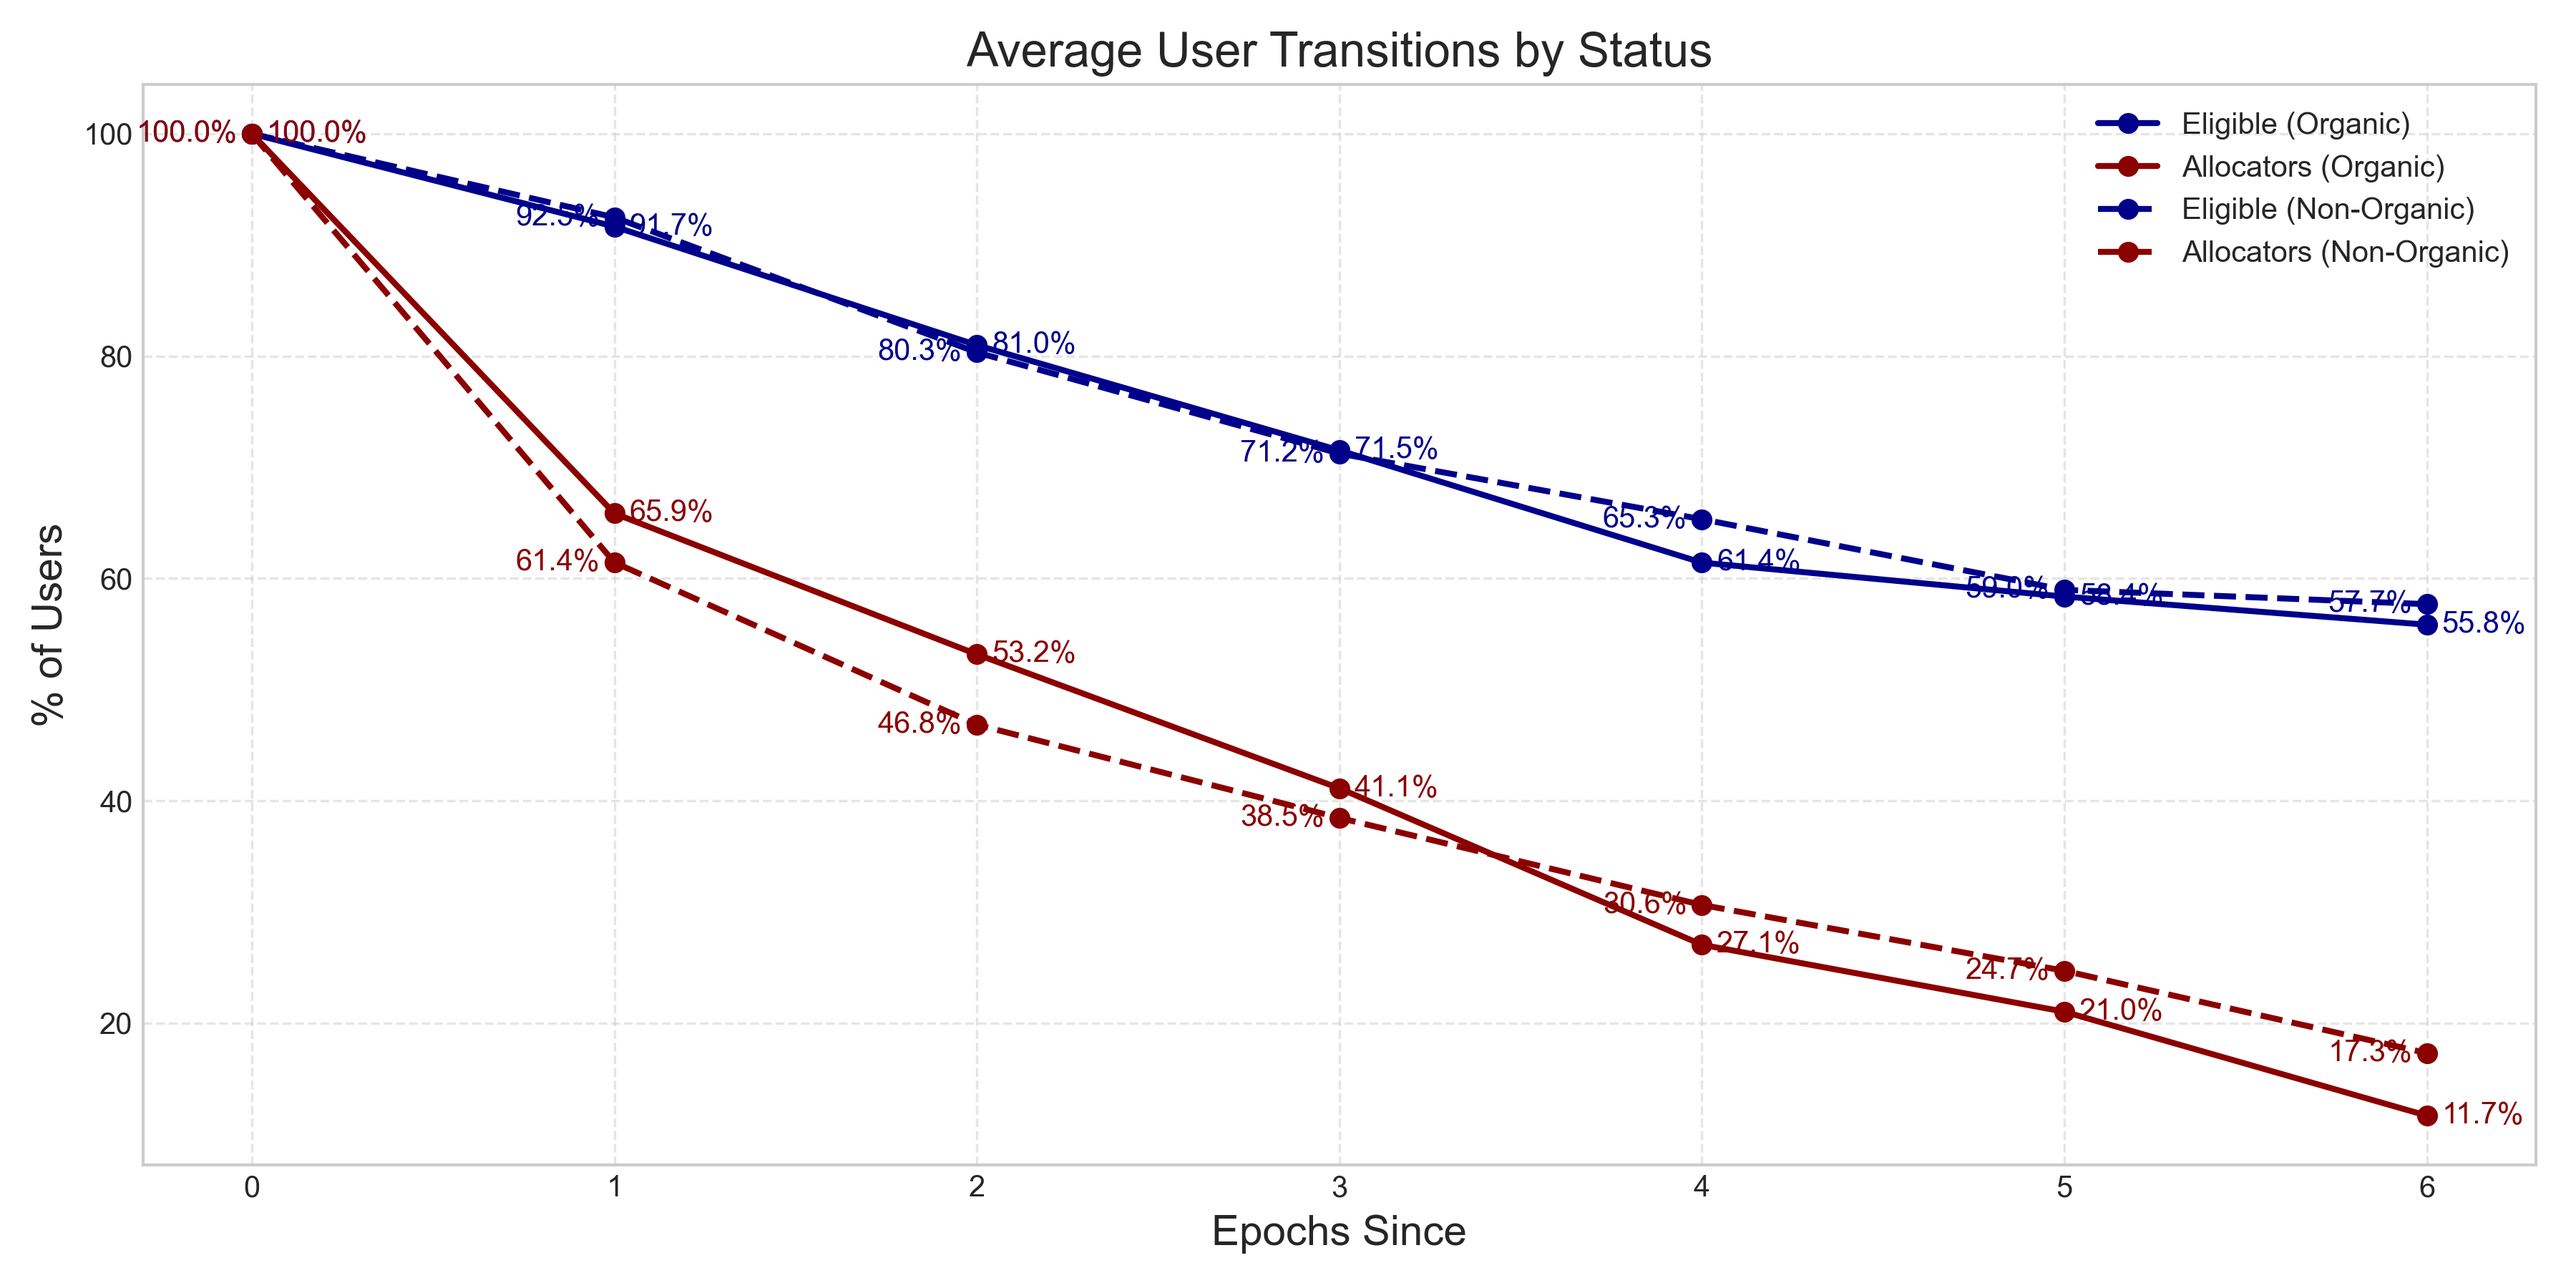
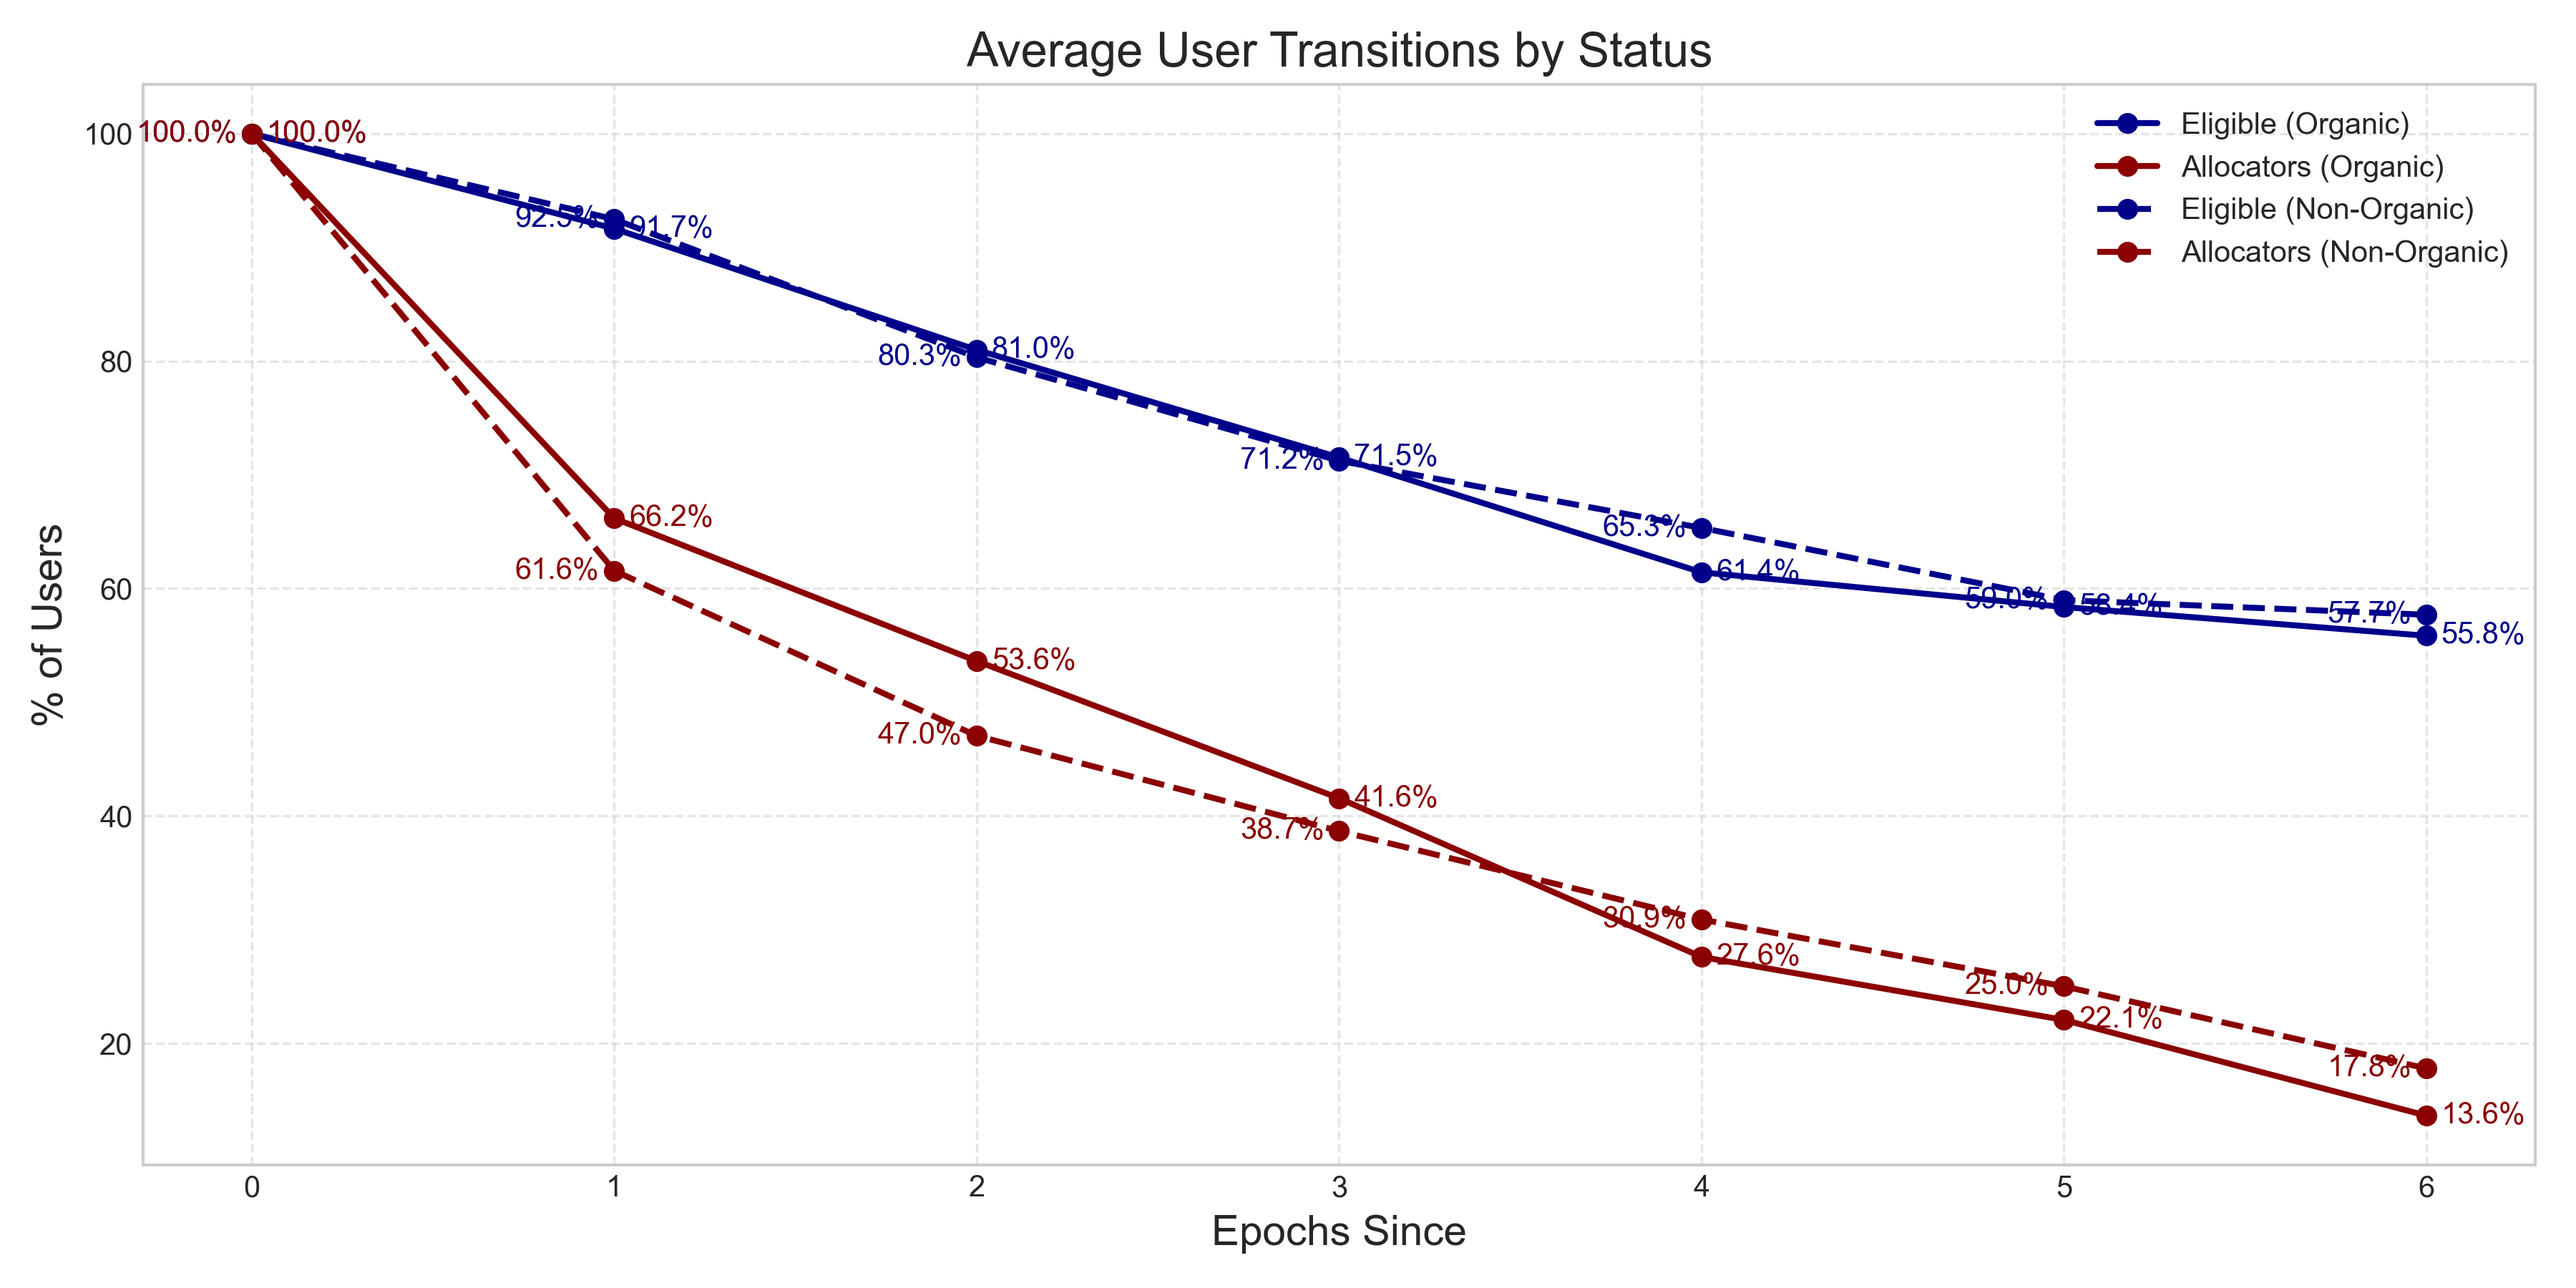
update data

diff --git a/_site/e7.html b/_site/e7.html
@@ -158,11 +158,11 @@
     <tr>
       <td style="width: 1%; text-align: center; padding: 8px; word-wrap: break-word; white-space: normal;">7</td>
       <td style="width: 1%; text-align: center; padding: 8px; word-wrap: break-word; white-space: normal;">211.906</td>
-      <td style="width: 1%; text-align: center; padding: 8px; word-wrap: break-word; white-space: normal;">190.630</td>
-      <td style="width: 1%; text-align: center; padding: 8px; word-wrap: break-word; white-space: normal;">1.848</td>
-      <td style="width: 1%; text-align: center; padding: 8px; word-wrap: break-word; white-space: normal;">10.0</td>
-      <td style="width: 1%; text-align: center; padding: 8px; word-wrap: break-word; white-space: normal;">90.0</td>
-      <td style="width: 1%; text-align: center; padding: 8px; word-wrap: break-word; white-space: normal;">1.0</td>
+      <td style="width: 1%; text-align: center; padding: 8px; word-wrap: break-word; white-space: normal;">196.071</td>
+      <td style="width: 1%; text-align: center; padding: 8px; word-wrap: break-word; white-space: normal;">2.484</td>
+      <td style="width: 1%; text-align: center; padding: 8px; word-wrap: break-word; white-space: normal;">7.5</td>
+      <td style="width: 1%; text-align: center; padding: 8px; word-wrap: break-word; white-space: normal;">92.5</td>
+      <td style="width: 1%; text-align: center; padding: 8px; word-wrap: break-word; white-space: normal;">1.3</td>
     </tr>
   </tbody>
 </table>
@@ -229,9 +229,9 @@
     <tr>
       <td style="width: 1%; text-align: center; padding: 8px; word-wrap: break-word; white-space: normal;">7</td>
       <td style="width: 1%; text-align: center; padding: 8px; word-wrap: break-word; white-space: normal;">2162</td>
-      <td style="width: 1%; text-align: center; padding: 8px; word-wrap: break-word; white-space: normal;">335</td>
-      <td style="width: 1%; text-align: center; padding: 8px; word-wrap: break-word; white-space: normal;">290</td>
-      <td style="width: 1%; text-align: center; padding: 8px; word-wrap: break-word; white-space: normal;">15.5</td>
+      <td style="width: 1%; text-align: center; padding: 8px; word-wrap: break-word; white-space: normal;">355</td>
+      <td style="width: 1%; text-align: center; padding: 8px; word-wrap: break-word; white-space: normal;">307</td>
+      <td style="width: 1%; text-align: center; padding: 8px; word-wrap: break-word; white-space: normal;">16.4</td>
     </tr>
   </tbody>
 </table>
@@ -297,10 +297,10 @@
     </tr>
     <tr>
       <td style="width: 1%; text-align: center; padding: 8px; word-wrap: break-word; white-space: normal;">7</td>
-      <td style="width: 1%; text-align: center; padding: 8px; word-wrap: break-word; white-space: normal;">67</td>
-      <td style="width: 1%; text-align: center; padding: 8px; word-wrap: break-word; white-space: normal;">10</td>
-      <td style="width: 1%; text-align: center; padding: 8px; word-wrap: break-word; white-space: normal;">24</td>
-      <td style="width: 1%; text-align: center; padding: 8px; word-wrap: break-word; white-space: normal;">103</td>
+      <td style="width: 1%; text-align: center; padding: 8px; word-wrap: break-word; white-space: normal;">69</td>
+      <td style="width: 1%; text-align: center; padding: 8px; word-wrap: break-word; white-space: normal;">11</td>
+      <td style="width: 1%; text-align: center; padding: 8px; word-wrap: break-word; white-space: normal;">26</td>
+      <td style="width: 1%; text-align: center; padding: 8px; word-wrap: break-word; white-space: normal;">111</td>
     </tr>
   </tbody>
 </table>
@@ -598,7 +598,7 @@
             <span>Octant Monitor</span>
         </div>
         <div class="footer-info">
-            <p class="footer-update">Last update: 2025-04-19 11:35:33</p>
+            <p class="footer-update">Last update: 2025-04-20 14:05:19</p>
             <p class="copyright">&copy; 2025 Octant. All rights reserved.</p>
         </div>
     </div>

diff --git a/_includes/e7/table_amounts.html b/_includes/e7/table_amounts.html
@@ -68,11 +68,11 @@
     <tr>
       <td style="width: 1%; text-align: center; padding: 8px; word-wrap: break-word; white-space: normal;">7</td>
       <td style="width: 1%; text-align: center; padding: 8px; word-wrap: break-word; white-space: normal;">211.906</td>
-      <td style="width: 1%; text-align: center; padding: 8px; word-wrap: break-word; white-space: normal;">190.630</td>
-      <td style="width: 1%; text-align: center; padding: 8px; word-wrap: break-word; white-space: normal;">1.848</td>
-      <td style="width: 1%; text-align: center; padding: 8px; word-wrap: break-word; white-space: normal;">10.0</td>
-      <td style="width: 1%; text-align: center; padding: 8px; word-wrap: break-word; white-space: normal;">90.0</td>
-      <td style="width: 1%; text-align: center; padding: 8px; word-wrap: break-word; white-space: normal;">1.0</td>
+      <td style="width: 1%; text-align: center; padding: 8px; word-wrap: break-word; white-space: normal;">196.071</td>
+      <td style="width: 1%; text-align: center; padding: 8px; word-wrap: break-word; white-space: normal;">2.484</td>
+      <td style="width: 1%; text-align: center; padding: 8px; word-wrap: break-word; white-space: normal;">7.5</td>
+      <td style="width: 1%; text-align: center; padding: 8px; word-wrap: break-word; white-space: normal;">92.5</td>
+      <td style="width: 1%; text-align: center; padding: 8px; word-wrap: break-word; white-space: normal;">1.3</td>
     </tr>
   </tbody>
 </table>

diff --git a/_includes/e7/table_cohorts.html b/_includes/e7/table_cohorts.html
@@ -53,10 +53,10 @@
     </tr>
     <tr>
       <td style="width: 1%; text-align: center; padding: 8px; word-wrap: break-word; white-space: normal;">7</td>
-      <td style="width: 1%; text-align: center; padding: 8px; word-wrap: break-word; white-space: normal;">67</td>
-      <td style="width: 1%; text-align: center; padding: 8px; word-wrap: break-word; white-space: normal;">10</td>
-      <td style="width: 1%; text-align: center; padding: 8px; word-wrap: break-word; white-space: normal;">24</td>
-      <td style="width: 1%; text-align: center; padding: 8px; word-wrap: break-word; white-space: normal;">103</td>
+      <td style="width: 1%; text-align: center; padding: 8px; word-wrap: break-word; white-space: normal;">69</td>
+      <td style="width: 1%; text-align: center; padding: 8px; word-wrap: break-word; white-space: normal;">11</td>
+      <td style="width: 1%; text-align: center; padding: 8px; word-wrap: break-word; white-space: normal;">26</td>
+      <td style="width: 1%; text-align: center; padding: 8px; word-wrap: break-word; white-space: normal;">111</td>
     </tr>
   </tbody>
 </table>

diff --git a/_includes/e7/table_users.html b/_includes/e7/table_users.html
@@ -54,9 +54,9 @@
     <tr>
       <td style="width: 1%; text-align: center; padding: 8px; word-wrap: break-word; white-space: normal;">7</td>
       <td style="width: 1%; text-align: center; padding: 8px; word-wrap: break-word; white-space: normal;">2162</td>
-      <td style="width: 1%; text-align: center; padding: 8px; word-wrap: break-word; white-space: normal;">335</td>
-      <td style="width: 1%; text-align: center; padding: 8px; word-wrap: break-word; white-space: normal;">290</td>
-      <td style="width: 1%; text-align: center; padding: 8px; word-wrap: break-word; white-space: normal;">15.5</td>
+      <td style="width: 1%; text-align: center; padding: 8px; word-wrap: break-word; white-space: normal;">355</td>
+      <td style="width: 1%; text-align: center; padding: 8px; word-wrap: break-word; white-space: normal;">307</td>
+      <td style="width: 1%; text-align: center; padding: 8px; word-wrap: break-word; white-space: normal;">16.4</td>
     </tr>
   </tbody>
 </table>

diff --git a/_site/e5.html b/_site/e5.html
@@ -373,7 +373,7 @@
             <span>Octant Monitor</span>
         </div>
         <div class="footer-info">
-            <p class="footer-update">Last update: 2025-04-19 11:35:33</p>
+            <p class="footer-update">Last update: 2025-04-20 14:05:19</p>
             <p class="copyright">&copy; 2025 Octant. All rights reserved.</p>
         </div>
     </div>

diff --git a/_site/e6.html b/_site/e6.html
@@ -518,7 +518,7 @@
             <span>Octant Monitor</span>
         </div>
         <div class="footer-info">
-            <p class="footer-update">Last update: 2025-04-19 11:35:33</p>
+            <p class="footer-update">Last update: 2025-04-20 14:05:19</p>
             <p class="copyright">&copy; 2025 Octant. All rights reserved.</p>
         </div>
     </div>

diff --git a/_site/index.html b/_site/index.html
@@ -121,7 +121,7 @@
             <span>Octant Monitor</span>
         </div>
         <div class="footer-info">
-            <p class="footer-update">Last update: 2025-04-19 11:35:33</p>
+            <p class="footer-update">Last update: 2025-04-20 14:05:19</p>
             <p class="copyright">&copy; 2025 Octant. All rights reserved.</p>
         </div>
     </div>

diff --git a/_includes/e7/current_datetime.html b/_includes/e7/current_datetime.html
@@ -7,6 +7,6 @@
     <title>Current Date and Time</title>
 </head>
 <body>
-    <p>Last update: 2025-04-19 11:35:27</p>
+    <p>Last update: 2025-04-20 14:05:10</p>
 </body>
 </html>
